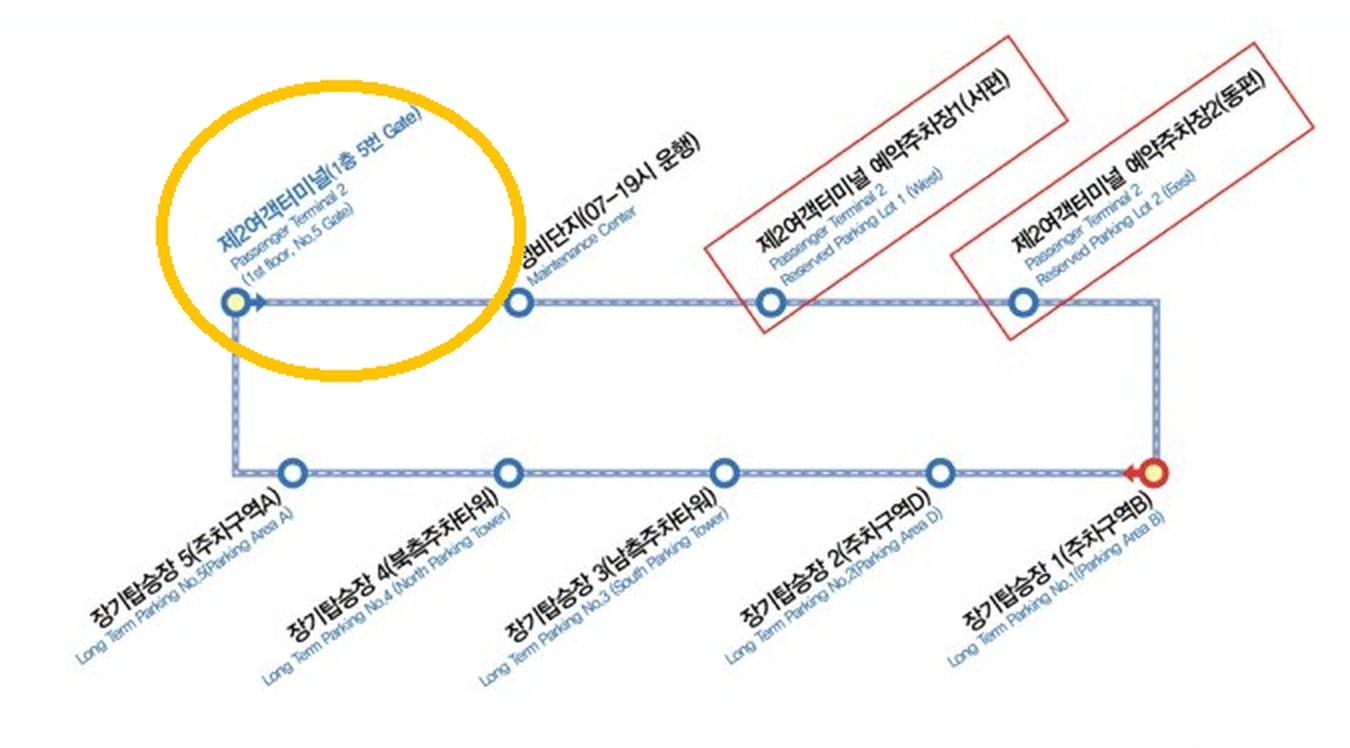
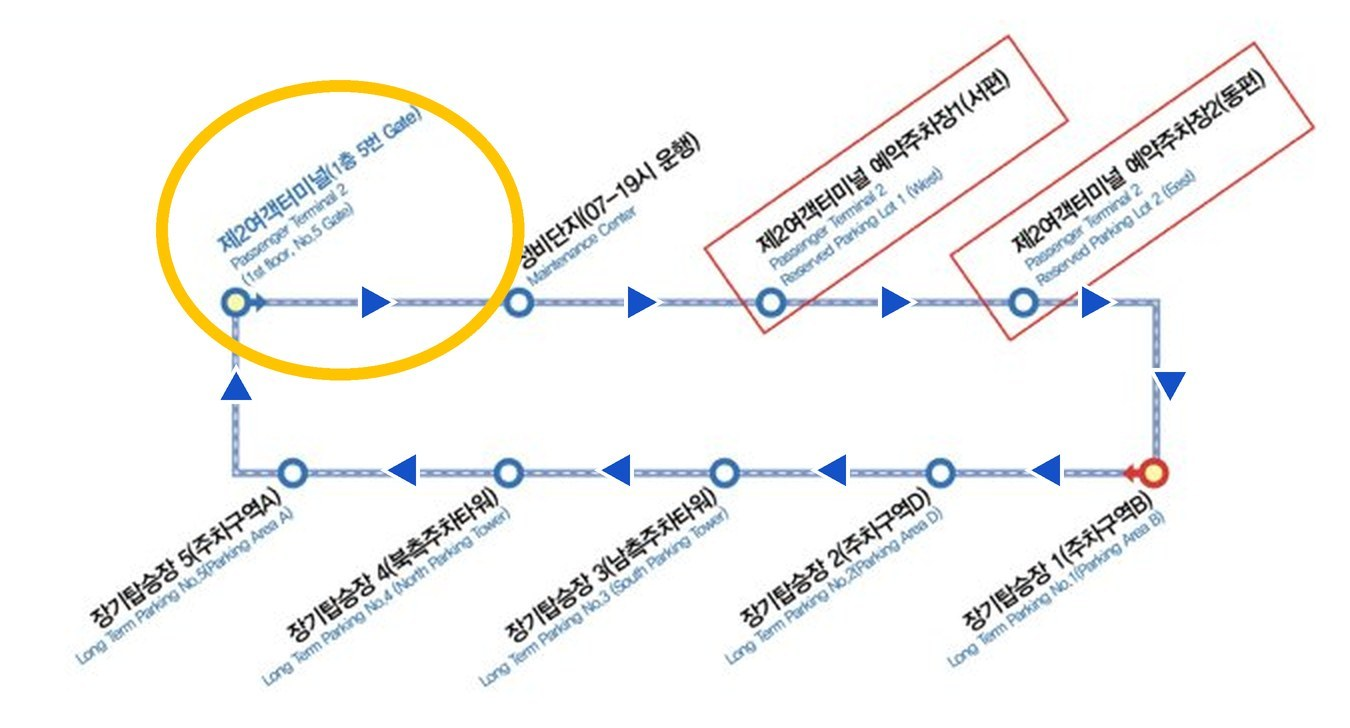
Shuttle map: bigger direction arrows
Claude-Session: https://claude.ai/code/session_01L2aYEXFB66TzMMbesmNc18

diff --git a/index.html b/index.html
@@ -686,7 +686,7 @@ footer{color:var(--muted);font-size:16px;text-align:center;padding-block:0 40px}
       <p class="valetnote">공항 발렛은 대기 예약 중인데, 안 될 가능성이 커요.</p>
       <div class="pkimgs">
         <figure><img src="img/parking-map.jpg?v=3" alt="제2터미널 예약주차장 위치 지도" loading="lazy"><figcaption>주차장 위치 (오른쪽 위 '예약 주차장')</figcaption></figure>
-        <figure><img src="img/parking-shuttle.jpg?v=3" alt="공항02번 셔틀버스 노선도" loading="lazy"><figcaption>공항02번 셔틀버스 노선</figcaption></figure>
+        <figure><img src="img/parking-shuttle.jpg?v=4" alt="공항02번 셔틀버스 노선도" loading="lazy"><figcaption>공항02번 셔틀버스 노선</figcaption></figure>
       </div>
     </div>
   </section>
